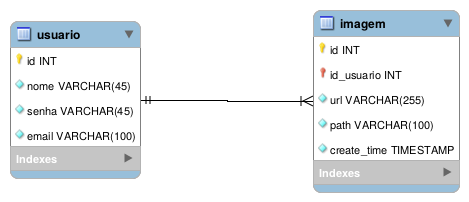
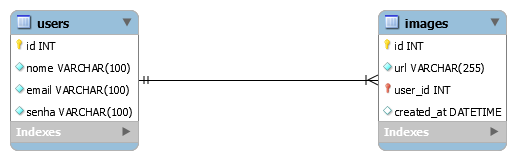
db changes

Changed region(s): [[0.0, 0.0312, 0.9851, 0.9688]]

diff --git a/src/main/java/model/entity/Image.java b/src/main/java/model/entity/Image.java
@@ -1,13 +1,10 @@
 package model.entity;
 
+import org.javalite.activejdbc.Model;
+
 import java.time.Duration;
 import java.time.LocalDateTime;
-import org.javalite.activejdbc.Model;
-import org.javalite.activejdbc.annotations.BelongsTo;
-import org.javalite.activejdbc.annotations.Table;
 
-@Table("imagem")
-@BelongsTo(parent = User.class, foreignKeyName = "id_usuario")
 public class Image extends Model {
 
     static {
@@ -26,7 +23,7 @@ public class Image extends Model {
     }
 
     public String getCreate_time() {
-        Duration d = Duration.between(getTimestamp("create_time").toLocalDateTime(), LocalDateTime.now());
+        Duration d = Duration.between(getTimestamp("created_at").toLocalDateTime(), LocalDateTime.now());
 
         if (d.toMillis() < 60000) {
             return d.toMillis() / 1000 + " segundos atras";

diff --git a/src/main/java/model/service/ImagemService.java b/src/main/java/model/service/ImagemService.java
@@ -14,12 +14,12 @@ public class ImagemService {
 
     public static LazyList getAllPhotos(int page) {
         page = page > 1 ? page : 1;
-        return Image.findAll().orderBy("create_time desc").offset((page - 1) * PAGESIZE).limit(PAGESIZE);
+        return Image.findAll().orderBy("created_at desc").offset((page - 1) * PAGESIZE).limit(PAGESIZE);
     }
 
     public static void newImage(long id, Part img) throws IOException {
         Image imagem = new Image();
-        imagem.setLong("id_usuario", id);
+        imagem.setLong("user_id", id);
         imagem.setString("url", Uploader.upload(FileHelper.SaveImage(img)));
         imagem.saveIt();
     }

diff --git a/src/main/java/model/entity/User.java b/src/main/java/model/entity/User.java
@@ -2,9 +2,7 @@ package model.entity;
 
 import org.javalite.activejdbc.LazyList;
 import org.javalite.activejdbc.Model;
-import org.javalite.activejdbc.annotations.Table;
 
-@Table("usuario")
 public class User extends Model {
 
     static {
@@ -29,8 +27,7 @@ public class User extends Model {
     }
 
     public LazyList getPhotos() {
-        return Image.where("id_usuario = ?", get("id")).orderBy("create_time desc");
-        //return getAll(Image.class).orderBy("create_time desc");
+        return getAll(Image.class).orderBy("created_at desc");
     }
 
 }

diff --git a/src/main/java/database/Database.java b/src/main/java/database/Database.java
@@ -17,7 +17,7 @@ public class Database {
             username = System.getenv("MYSQL_USER");
             password = System.getenv("MYSQL_PASSWORD");
         } else {
-            host = "jdbc:mysql://192.168.99.100:3306/sql10232125?useSSL=false";
+            host = "jdbc:mysql://192.168.99.100:3306/sql10233623?useSSL=false";
             username = "root";
             password = "root";
         }
